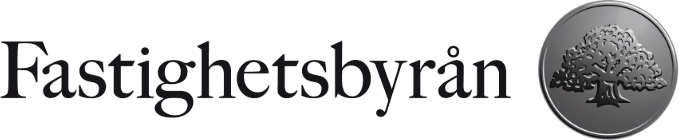
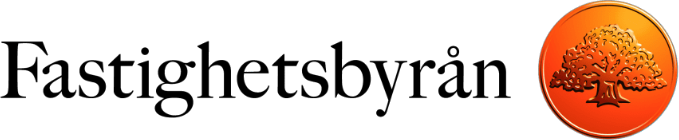
Livrustning: kundloggorna i sina egna färger

diff --git a/kunder/livrustning/src/app/page.tsx b/kunder/livrustning/src/app/page.tsx
@@ -10,7 +10,7 @@ import { foretag } from "@/lib/site";
 
 import bildEvent from "@/bilder/ehlr-event-sal.webp";
 import bildInstruktor from "@/bilder/instruktorsutbildning.webp";
-import bildOvning from "@/bilder/hlr-ovning.webp";
+import bildTraning from "@/bilder/praktisk-traning.webp";
 import reco from "@/bilder/reco-5-ar-i-rad.webp";
 
 export const metadata = metadataFor({
@@ -385,32 +385,39 @@ export default function Startsida() {
       <Avslut live />
 
       {/* Sista ordet: varför allt bygger på praktisk träning. */}
-      <section className="border-t border-black/10 bg-white">
-        <div className="mx-auto grid max-w-7xl grid-cols-1 items-center gap-10 px-5 py-20 lg:grid-cols-12 lg:gap-16 lg:px-8 lg:py-28">
-          <div className="lg:col-span-6" data-in="vanster">
-            <h2 className="text-[clamp(2.1rem,4.6vw,3.75rem)] leading-[1.02] font-bold">Praktisk träning ger trygghet</h2>
-            <p className="mt-6 max-w-xl text-xl leading-relaxed text-grafit">
+      {/* Mörk final mot sidfoten: fotot fyller högra delen och tonar ut i
+          bakgrunden, texten ligger i det mörka fältet till vänster. På mobil
+          ligger fotot överst och tonar ned i texten. */}
+      <section className="relative isolate overflow-hidden border-b border-white/10 bg-monitor text-monitor-text">
+        <div className="relative aspect-[4/3] sm:aspect-[16/10] lg:absolute lg:inset-y-0 lg:right-0 lg:aspect-auto lg:w-[57%]">
+          <Image
+            src={bildTraning}
+            alt="En deltagare gör hjärt-lungräddning på en övningsdocka medan en annan förbereder träningshjärtstartaren och instruktören tittar på"
+            fill
+            placeholder="blur"
+            sizes="(min-width: 1024px) 57vw, 100vw"
+            className="object-cover object-[50%_45%]"
+          />
+          <div
+            aria-hidden
+            className="absolute -inset-0.5 bg-linear-to-t from-monitor via-monitor/0 via-25% to-transparent lg:bg-linear-to-r lg:from-monitor lg:via-monitor/55 lg:via-25% lg:to-transparent lg:to-65%"
+          />
+        </div>
+        <div className="relative mx-auto flex max-w-7xl items-center px-5 pb-20 lg:min-h-[min(44vw,52rem)] lg:px-8 lg:py-28">
+          <div className="pt-6 max-w-xl sm:pt-10 lg:pt-0 lg:max-w-[min(33rem,38vw)]" data-in="vanster">
+            <h2 className="text-[clamp(2.1rem,4.6vw,3.75rem)] leading-[1.02] font-bold text-white">
+              Praktisk träning ger trygghet
+            </h2>
+            <p className="mt-6 text-xl leading-relaxed text-monitor-dampad">
               Praktisk träning är kärnan i våra utbildningar. Du tränar med en egen övningsdocka och en
               träningshjärtstartare tills handgreppen sitter i muskelminnet. Då kan du agera snabbt och tryggt när det
               verkligen gäller.
             </p>
-            <p className="mt-8">
-              <PilLank href="/utbildningar" className="text-lg">
+            <p className="mt-9">
+              <PilLank href="/utbildningar" className="text-lg text-white [&>span]:decoration-magenta">
                 Välj rätt utbildning
               </PilLank>
             </p>
-          </div>
-          <div className="lg:col-span-6">
-            <div className="foto relative aspect-[4/3]" data-in="bild">
-              <Image
-                src={bildOvning}
-                alt="Två deltagare övar HLR med träningshjärtstartare på en övningsdocka"
-                fill
-                placeholder="blur"
-                sizes="(min-width: 1024px) 580px, 100vw"
-                className="object-cover"
-              />
-            </div>
           </div>
         </div>
       </section>

diff --git a/kunder/livrustning/src/components/Kundband.tsx b/kunder/livrustning/src/components/Kundband.tsx
@@ -14,16 +14,17 @@ import svenskaKyrkan from "@/bilder/kunder/svenska-kyrkan.png";
 
 /**
  * Kundloggorna, i den ordning kunden listade dem (underlaget 2026-11-19).
- * `vikt` finjusterar storleken för loggor som ser tyngre eller lättare ut än
- * sin form, t.ex. HITACHIs feta versaler eller Sturebadets tunna linje.
+ * Loggorna visas i sina egna färger. `vikt` finjusterar storleken för loggor
+ * som ser tyngre eller lättare ut än sin form, t.ex. HITACHIs feta röda
+ * versaler eller Sturebadets tunna linje.
  */
 const loggor: { namn: string; bild: StaticImageData; vikt?: number }[] = [
   { namn: "Handelsbanken", bild: handelsbanken },
-  { namn: "Atlas Copco", bild: atlasCopco, vikt: 0.92 },
+  { namn: "Atlas Copco", bild: atlasCopco, vikt: 0.86 },
   { namn: "ATEA", bild: atea, vikt: 0.9 },
   { namn: "Fastighetsbyrån", bild: fastighetsbyran, vikt: 1.18 },
   { namn: "Svenska kyrkan", bild: svenskaKyrkan, vikt: 1.05 },
-  { namn: "Hitachi", bild: hitachi, vikt: 0.8 },
+  { namn: "Hitachi", bild: hitachi, vikt: 0.76 },
   { namn: "Stockholms stad", bild: stockholmsStad, vikt: 1.12 },
   { namn: "DB Schenker", bild: dbSchenker, vikt: 0.92 },
   { namn: "Sturebadet", bild: sturebadet, vikt: 1.04 },
@@ -57,7 +58,7 @@ export default function Kundband({ className = "" }: { className?: string }) {
               src={l.bild}
               alt={dold ? "" : l.namn}
               sizes={`${Math.round((h * l.bild.width) / l.bild.height)}px`}
-              className="w-auto opacity-80"
+              className="w-auto"
               style={{ height: `calc(${h}px * var(--logga-skala, 1))` }}
             />
           </li>

diff --git a/kunder/livrustning/BILDKALLOR.md b/kunder/livrustning/BILDKALLOR.md
@@ -9,7 +9,7 @@ Kursfotona kommer från Livrustning AB:s egna kanaler och hämtades 2026-09-18 p
 | traning-pa-plats-1, traning-pa-plats-2 | Kundens egna kursfoton, levererade 2026-11-19 ("Träning på plats 1/2", 640 px breda: visas därför små). Graderade som övriga kursfoton |
 | sakerhetsdag-kollage, ehlr-event-sal, instruktorsutbildning, hjartstartare-i-hand, hjartstartare-hemma, hjartstartare-spanien, hjartstartarpaket-kontor | Levererade av kunden 2026-11-19. Graderas inte (skyltar och hjärtstartare ska ha rätt färg), bara skalning och webp |
 | johnny-sundin, peter-jonsson | Porträtten ur kundens underlag (PDF 2026-11-19), 291 px breda: visas små |
-| kunder/* (elva kundloggor) | Nio från nicetobealive.se (kundens egen sajt), Svenska kyrkan och Folkbildningsrådet som SVG från deras egna webbplatser, 2026-11-20. Omfärgade till bläckfärg på genomskinlig botten i `scripts/bilder.mjs` |
+| kunder/* (elva kundloggor) | Nio från nicetobealive.se (kundens egen sajt), Svenska kyrkan och Folkbildningsrådet som SVG från deras egna webbplatser, 2026-11-20. Egna färger; den vita bakgrunden görs genomskinlig i `scripts/bilder.mjs`. Folkbildningsrådets vita SVG får deras vinröda #980048 |
 | reco-5-ar-i-rad | Reco-märket "Rekommenderat 5 år i rad" från gamla livrustning.se, frilagt längs cirkeln |
 
 Graderingen (samma på alla foton, se `scripts/bilder.mjs`): färgsticket neutraliseras per bild (gråvärld, högst ±12 %), sedan mättnad 0,72, lyfta skuggor, matt svärta i bläckfärg och 14 % magenta i mjukt ljus. Byt alltid filnamn när ett motiv byts, skriv aldrig över samma sökväg på en publicerad sajt (bilder cachas per URL).
